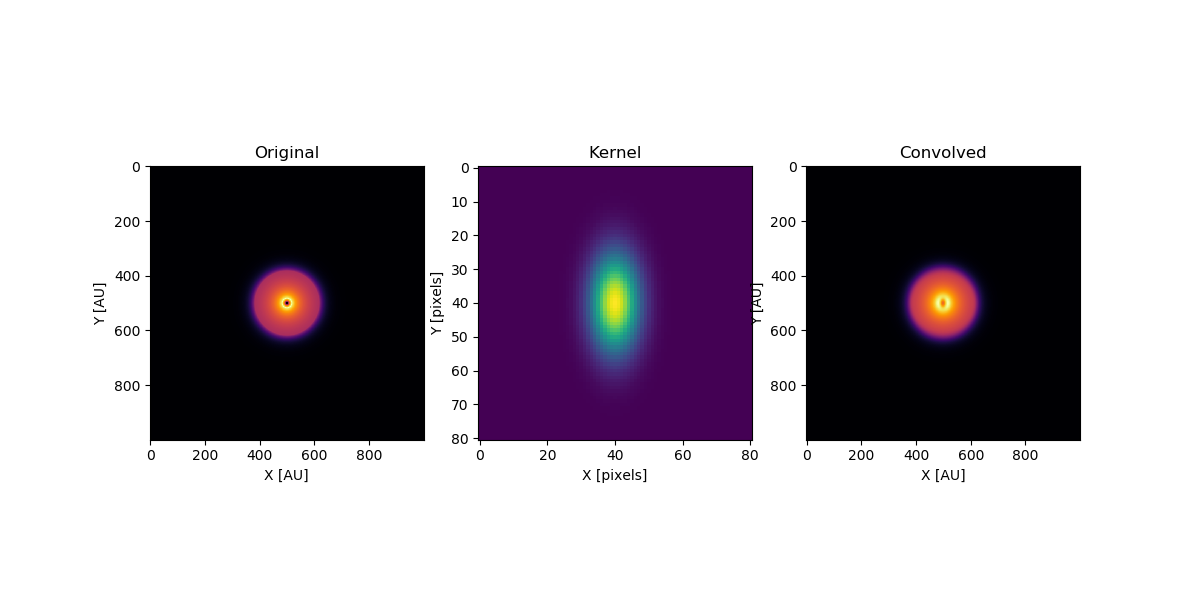
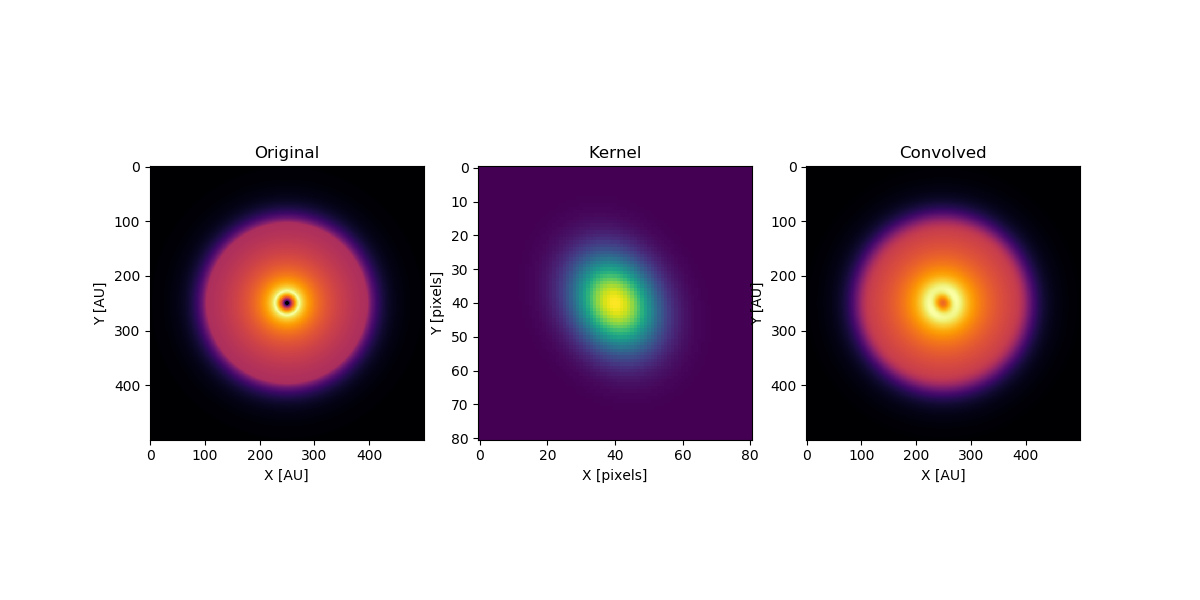
started work on image to line profile converter

diff --git a/code/imageToProfile.py b/code/imageToProfile.py
@@ -1,0 +1,73 @@
+# Michael Stroet  11293284
+
+import os, sys
+import numpy as np
+import matplotlib.pyplot as plt
+
+from scipy.ndimage import map_coordinates
+from astropy.convolution import convolve, Gaussian2DKernel
+
+from modelImage import *
+
+root_directory = os.path.dirname(os.path.dirname(os.path.realpath(__file__)))
+data_directory = root_directory + "\\data\\"
+figures_directory = data_directory + "codeFigures\\"
+
+def pyName():
+    return __file__.split("\\")[-1].replace(".py", "")
+
+if __name__ == "__main__":
+
+    print("loading image:")
+    image, pixelDimension, pixelSize = loadImageTXT("image.txt")
+    print(pixelDimension, pixelSize)
+    print(image)
+
+    print("image loaded\n")
+
+    kernel = Gaussian2DKernel(x_stddev = 10, y_stddev = 8, theta = np.pi/3)
+    convolved_image = convolve(image, kernel)
+
+    center = pixelDimension / 2.0
+    end = [pixelDimension, center]
+    N_points = pixelDimension
+
+    # Generate N coordinates between the center and end points
+    x, y = np.linspace(center, end[0], N_points), np.linspace(center, end[1], N_points)
+
+    # Get the radii of the coordinates
+    radii = []
+    for i in range(len(x)):
+        radii.append((np.sqrt((x[i] - center)**2 + (y[i] - center)**2)) * pixelSize)
+    print(radii)
+
+    # Extract the values along the line, using cubic interpolation
+    image_profile = map_coordinates(image, np.vstack((x,y)))
+    convolved_profile = map_coordinates(convolved_image, np.vstack((x,y)))
+
+    #-- Plot...
+    plt.figure("Testing", figsize = (10, 10))
+
+    ax1 = plt.subplot(2,2,1)
+
+    ax1.imshow(image, cmap="inferno")
+    ax1.plot([center, end[0]], [center, end[1]], "go-")
+    ax1.set_title("Original")
+    ax1.set_xlabel("X [pixels]")
+    ax1.set_ylabel("Y [pixels]")
+
+    ax2 = plt.subplot(2,2,2)
+
+    ax2.imshow(convolved_image, cmap="inferno")
+    ax2.plot([center, end[0]], [center, end[1]], "go-")
+    ax2.set_title("Convolved")
+    ax2.set_xlabel("X [pixels]")
+    ax2.set_ylabel("Y [pixels]")
+
+    ax3 = plt.subplot(2,2,3)
+    ax3.plot(image_profile)
+
+    ax4 = plt.subplot(2,2,4)
+    ax4.plot(convolved_profile)
+
+    plt.show()

diff --git a/code/convolution.py b/code/convolution.py
@@ -4,8 +4,7 @@ import os, sys
 import numpy as np
 import matplotlib.pyplot as plt
 
-from astropy.convolution import Gaussian2DKernel
-from astropy.convolution import convolve
+from astropy.convolution import convolve, Gaussian2DKernel
 
 from modelImage import *
 
@@ -18,8 +17,8 @@ def pyName():
 
 if __name__ == "__main__":
 
-    image = loadImageTXT("image.txt")
-    kernel = Gaussian2DKernel(x_stddev = 10, y_stddev = 5, theta = np.pi/2)
+    image, pixelDimension, pixelSize = loadImageTXT("image.txt")
+    kernel = Gaussian2DKernel(x_stddev = 10, y_stddev = 8, theta = np.pi/3)
 
     convolved_image = convolve(image, kernel)
 
